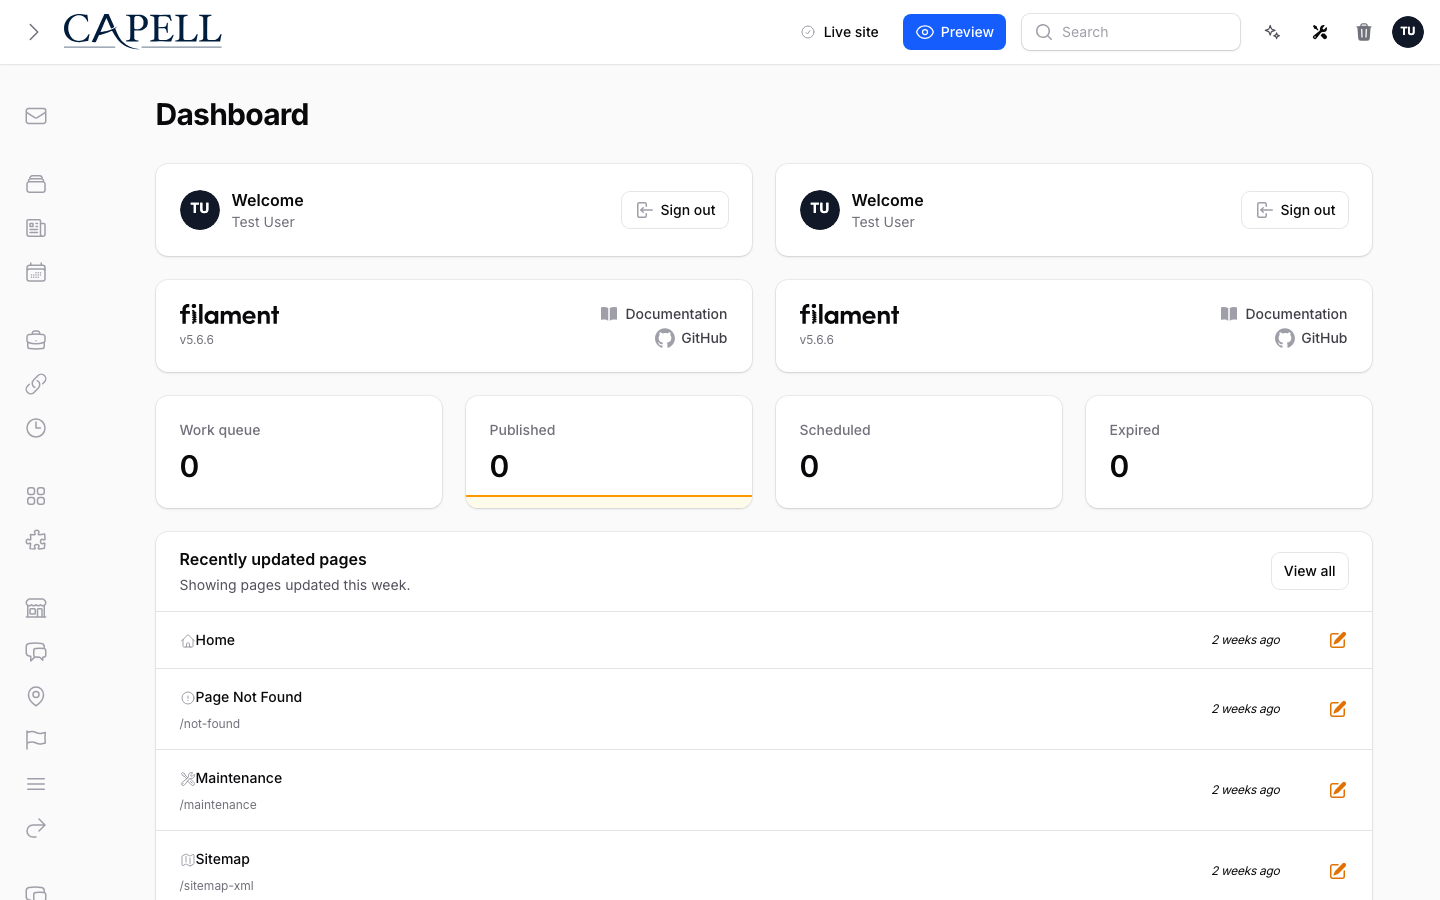
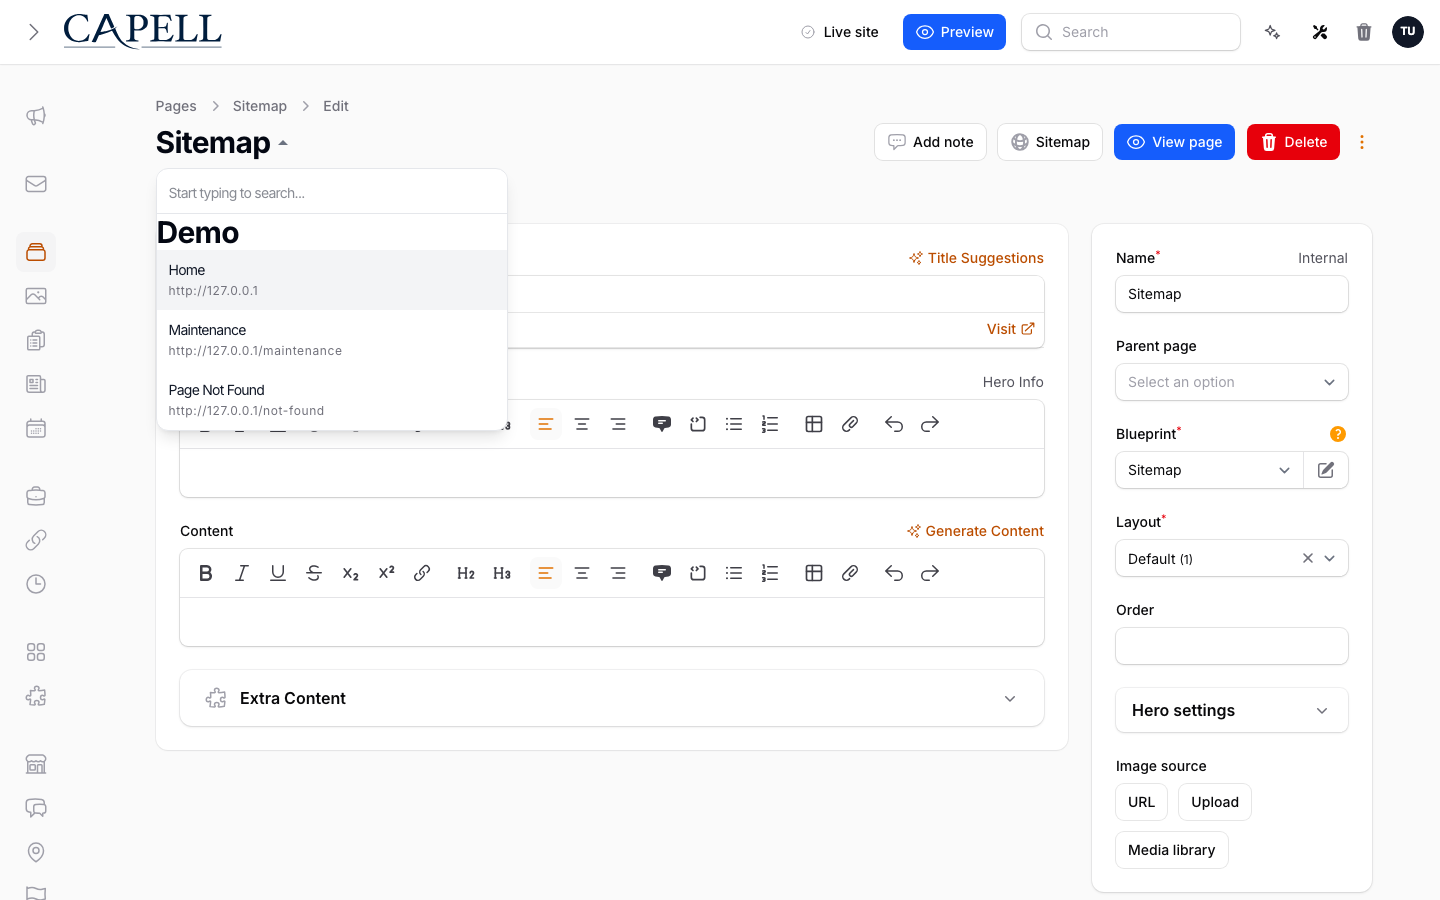
Fix record switcher runner captures

diff --git a/tests/Unit/ManifestRequirementsTest.php b/tests/Unit/ManifestRequirementsTest.php
@@ -62,14 +62,19 @@ describe('record-switcher manifest', function (): void {
         expect($screenshots)->not->toBeEmpty();
 
         foreach ($screenshots as $screenshot) {
-            expect($screenshot['path'])->toStartWith('docs/assets/marketplace/')
-                ->and(File::exists($packagePath . '/' . $screenshot['path']))->toBeTrue()
+            $path = (string) $screenshot['path'];
+
+            expect(
+                str_starts_with($path, 'docs/assets/marketplace/')
+                    || str_starts_with($path, 'docs/screenshots/'),
+            )->toBeTrue()
+                ->and(File::exists($packagePath . '/' . $path))->toBeTrue()
                 ->and(strlen(trim((string) $screenshot['alt'])))->toBeGreaterThanOrEqual(12)
                 ->and(strlen(trim((string) $screenshot['caption'])))->toBeGreaterThanOrEqual(12);
         }
     });
 
-    it('maps required screenshot contract entries to committed marketplace assets', function () use ($packagePath): void {
+    it('maps required screenshot contract entries to committed runner captures', function () use ($packagePath): void {
         $contract = json_decode(
             File::get($packagePath . '/docs/screenshots.json'),
             associative: true,
@@ -78,15 +83,23 @@ describe('record-switcher manifest', function (): void {
 
         $entries = $contract['entries'] ?? [];
 
-        expect($entries)->not->toBeEmpty();
+        expect($contract['generatedFor'])->toBe('deployment-screenshot-runner')
+            ->and($contract['composerRequires'] ?? [])->toContain('capell-app/record-switcher')
+            ->and($entries)->not->toBeEmpty();
 
         foreach ($entries as $entry) {
             expect($entry['required'])->toBeTrue()
-                ->and($entry['screenshotPath'])->toStartWith('packages/record-switcher/docs/assets/marketplace/');
+                ->and($entry['screenshotPath'])->toStartWith('packages/record-switcher/docs/screenshots/')
+                ->and($entry['screenshotPath'])->toEndWith('.png');
 
             $relativePath = str_replace('packages/record-switcher/', '', (string) $entry['screenshotPath']);
 
             expect(File::exists($packagePath . '/' . $relativePath))->toBeTrue();
+
+            $darkRelativePath = preg_replace('/\.png$/', '-dark.png', $relativePath);
+
+            expect(is_string($darkRelativePath))->toBeTrue()
+                ->and(File::exists($packagePath . '/' . $darkRelativePath))->toBeTrue();
         }
     });
 });

diff --git a/src/Livewire/RecordSwitcher.php b/src/Livewire/RecordSwitcher.php
@@ -16,7 +16,6 @@ use Illuminate\Database\Eloquent\Builder;
 use Illuminate\Database\Eloquent\Model;
 use Illuminate\Database\Query\Expression;
 use Illuminate\Support\Arr;
-use Illuminate\Support\HtmlString;
 use Illuminate\Support\Str;
 use Illuminate\View\View;
 use Livewire\Attributes\Renderless;
@@ -46,7 +45,7 @@ final class RecordSwitcher extends Component
     }
 
     /**
-     * @return list<array{value: string, label: string|Htmlable, group?: string}>
+     * @return list<array{value: string, label: string, group?: string}>
      */
     #[Renderless]
     public function getOptions(?string $search = null): array
@@ -207,7 +206,7 @@ final class RecordSwitcher extends Component
     }
 
     /**
-     * @return array{value: string, label: string|Htmlable, group?: string}
+     * @return array{value: string, label: string, group?: string}
      */
     private function item(Model $model): array
     {
@@ -225,10 +224,12 @@ final class RecordSwitcher extends Component
         return $item;
     }
 
-    private function itemLabel(Model $model): string|Htmlable
+    private function itemLabel(Model $model): string
     {
         if (! $model instanceof Page) {
-            return $this->resourceClass::getRecordTitle($model) ?? '';
+            $label = $this->resourceClass::getRecordTitle($model);
+
+            return $label instanceof Htmlable ? $label->toHtml() : (string) $label;
         }
 
         $label = e($model->name);
@@ -242,9 +243,7 @@ final class RecordSwitcher extends Component
 
         $url = $this->pageUrl($model);
 
-        return new HtmlString(
-            $label . ($url !== '' ? sprintf("<br /><span class='text-xs tracking-wider text-gray-500 dark:text-gray-400'>%s</span>", e($url)) : ''),
-        );
+        return $label . ($url !== '' ? sprintf("<br /><span class='text-xs tracking-wider text-gray-500 dark:text-gray-400'>%s</span>", e($url)) : '');
     }
 
     private function itemGroup(Model $model): ?string

diff --git a/tests/Unit/RecordSwitcherOptionsTest.php b/tests/Unit/RecordSwitcherOptionsTest.php
@@ -1,0 +1,25 @@
+<?php
+
+declare(strict_types=1);
+
+use Capell\Admin\Filament\Resources\Pages\PageResource;
+use Capell\Core\Models\Blueprint;
+use Capell\Core\Models\Page;
+use Capell\RecordSwitcher\Livewire\RecordSwitcher;
+
+it('returns page option labels as html strings for browser choices', function (): void {
+    $pageType = Blueprint::factory()->page()->default()->create();
+    $currentPage = Page::factory()->type($pageType)->create(['name' => 'Home']);
+    Page::factory()->type($pageType)->create(['name' => 'Pricing']);
+
+    $switcher = new RecordSwitcher;
+    $switcher->resourceClass = PageResource::class;
+    $switcher->recordKey = (string) $currentPage->getRouteKey();
+    $switcher->label = 'Home';
+
+    $options = $switcher->getOptions();
+
+    expect($options)->toHaveCount(1)
+        ->and($options[0]['label'])->toBe('Pricing')
+        ->and(is_string($options[0]['label']))->toBeTrue();
+});

diff --git a/docs/overview.md b/docs/overview.md
@@ -25,7 +25,7 @@ Install `capell-app/record-switcher`. The package registers itself through Capel
 
 ## Screenshot Instructions
 
-Capture the edit page heading with suggestions open after typing a short query. The committed SVG assets are interim Marketplace previews until a seeded package harness captures real admin screenshots.
+The committed gallery uses the extension card SVG plus light and dark PNG captures from the Capell screenshot runner. Regenerate the edit-page heading capture with suggestions open when the admin heading bridge or switcher styling changes.
 
 ## Safety Caveats
 
